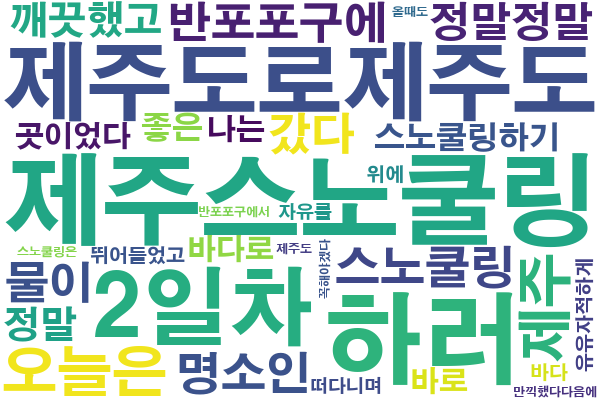
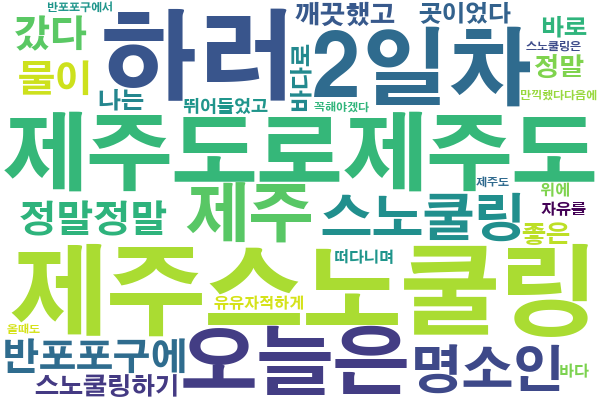
wordcloud-5

diff --git a/templates/write.html b/templates/write.html
@@ -268,7 +268,6 @@
                             window.location.reload();
                         }
                     }
-
                 })
 
             }
@@ -358,19 +357,15 @@
                 <!--                    <label><input type="radio" name="post-weather" value="sunny" button style="margin:8px;">⛄</label>-->
                 <!--                </div>-->
 
-
                 <!--사진첨부-->
                 <!--            <div class="custom-file">-->
                 <!--                <input type="file" class="custom-file-input" id="file">-->
                 <!--                <label class="custom-file-label" for="file">사진 선택</label>-->
                 <!--            </div>-->
 
-
                 <button class="btn btn-primary" onclick="make_log()" type="submit">일기 저장</button>
             </div>
-
         </div>
-
         <div class="card-columns" id="cards-box"></div>
     </div>
 

diff --git a/templates/cloud.html b/templates/cloud.html
@@ -52,12 +52,11 @@
                     let temp_html = `<div class="card-img">
                                         <img id="cloud-img" src="${make_cloud}" alt="img">
                                     </div>`
-                    $('#cloud_img').append(temp_html)
+                    $('#cloud-img').append(temp_html)
                 }
             })
         }
     </script>
-
 
     <style>
         * {
@@ -232,13 +231,7 @@
         }
         /* !!여기는 모바일 버전 css 끝!! */
     </style>
-    <script>
-         $(document).ready(function () {
-            showLog();
-        });
-    </script>
-
-</head>
+ </head>
 
 <body>
     <header class="wrap">

diff --git a/templates/index.html b/templates/index.html
@@ -317,7 +317,6 @@
         </div>
 
         <!-- 4. bootstrap css 문제 해결을 위해 class에서 id로 변경 -->
-
         <div id="card-box" class="card-columns">
             <!-- <div class="card">-->
                 <!-- <img class="card-img-top"-->

diff --git a/app.py b/app.py
@@ -76,7 +76,7 @@ def show_logs():
     travel_log = list(db.travelLog.find({}, {'_id': False}))
     return jsonify({'travel_logs' : travel_log})
 
-# 클라우드 보여주기 cloud.html
+# 워드클라우드 보여주기 cloud.html
 @app.route('/cloud')
 def show_cloud():
     word_cloud = wc.to_file("wordcloud.png")
